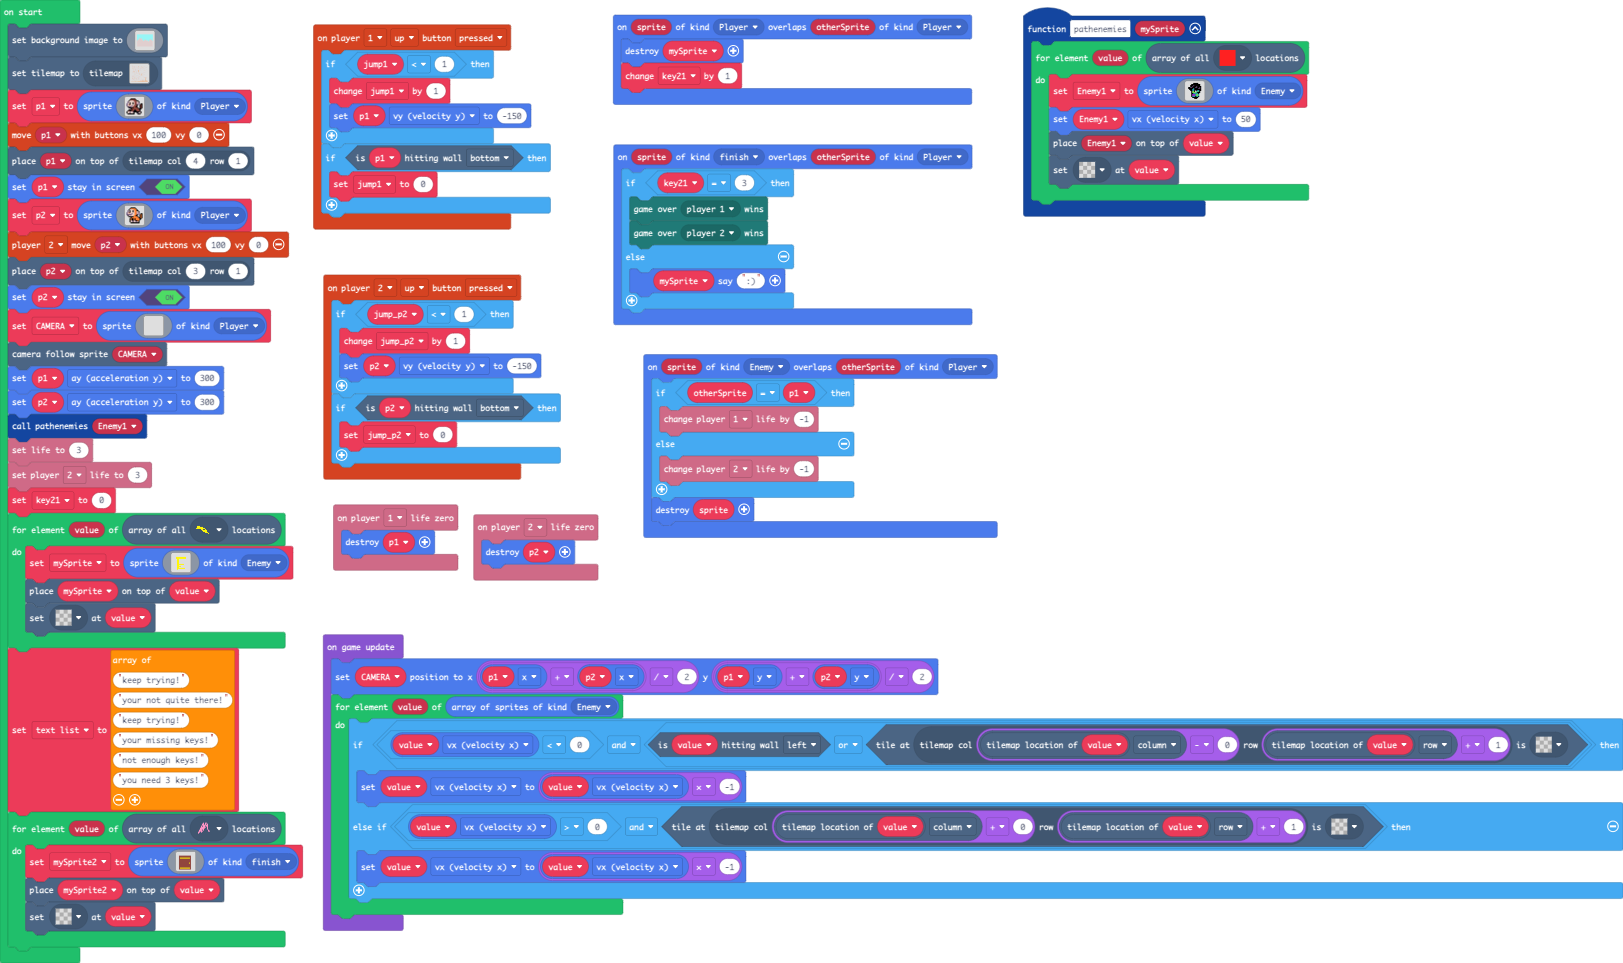
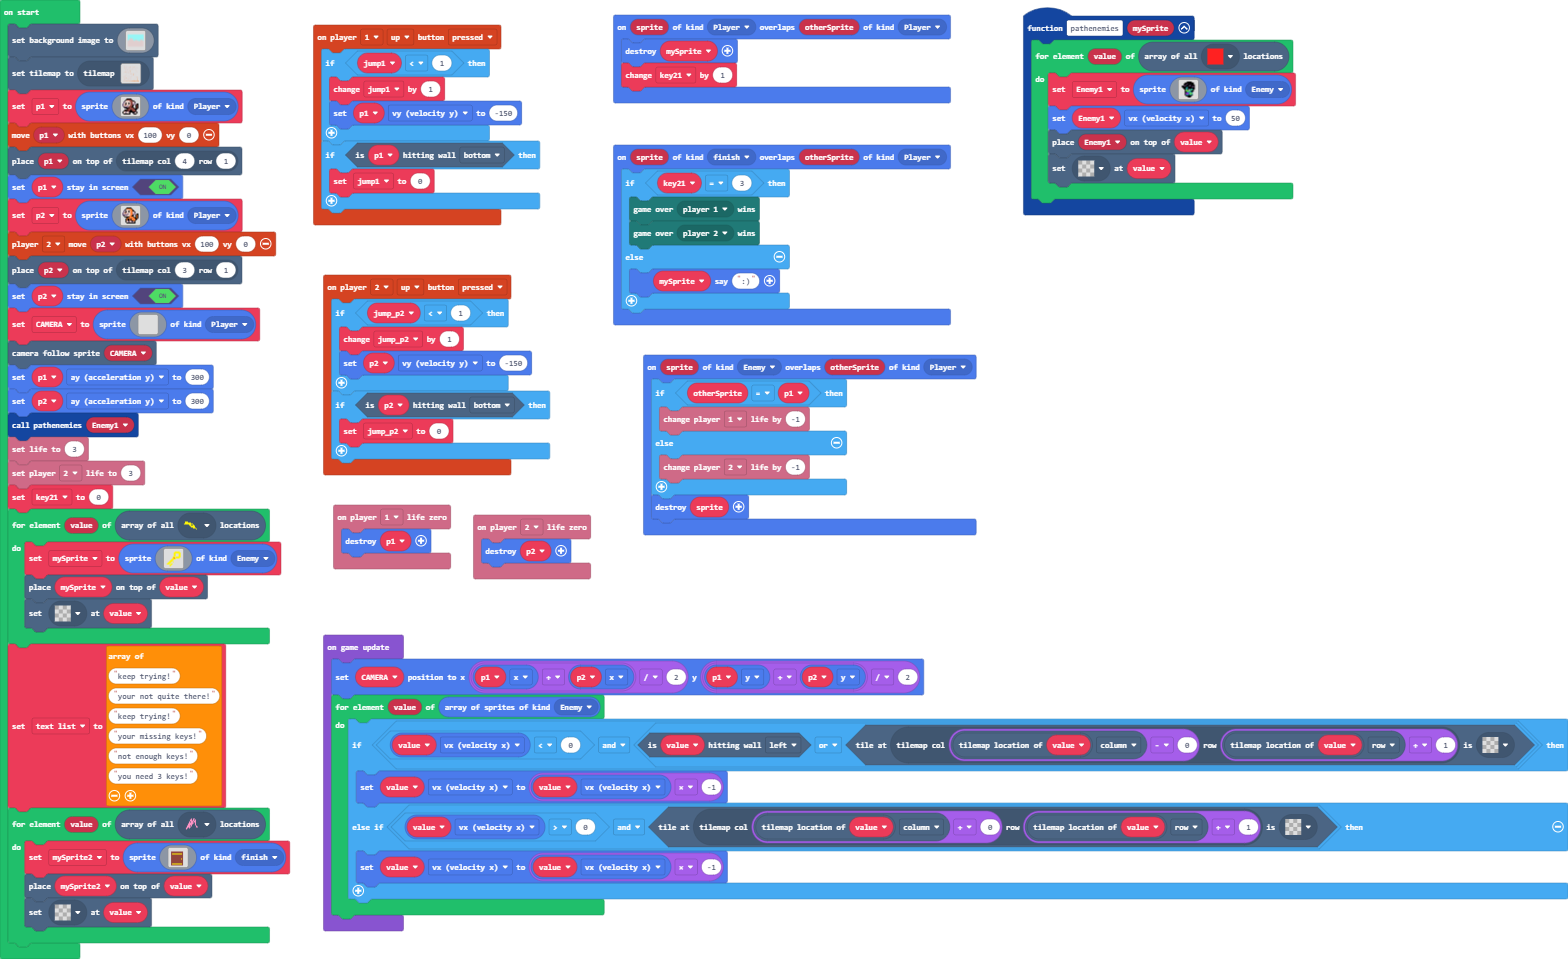
Update main.blocks, main.ts

diff --git a/main.ts b/main.ts
@@ -271,21 +271,21 @@ key21 = 0
 for (let value of tiles.getTilesByType(assets.tile`myTile1`)) {
     mySprite = sprites.create(img`
         . . . . . . . . . . . . . . . . 
-        . . . . . . . . . . . . . . . . 
-        . . . 5 5 5 5 5 5 5 5 5 5 . . . 
-        . . . 5 5 5 5 5 5 5 5 5 5 . . . 
+        . . . . . . . . . 5 5 5 5 5 . . 
+        . . . . . . . . 5 5 5 5 5 5 5 . 
+        . . . . . . . . 5 5 . . . 5 5 . 
+        . . . . . . . . 5 5 . . . 5 5 . 
+        . . . . . . . . 5 5 . . . 5 5 . 
+        . . . . . . . 5 5 . 5 5 5 5 5 . 
+        . . . . . . . 5 2 5 5 5 5 5 . . 
+        . . . . . . 5 5 5 5 . . . . . . 
+        . . . . . 5 5 5 . . . . . . . . 
+        . . . . 5 5 5 . . . . . . . . . 
+        . . . 5 5 5 . 5 . . . . . . . . 
+        . . 5 5 5 . . . . . . . . . . . 
+        . 5 5 5 . 5 5 . . . . . . . . . 
         . . . . 5 5 . . . . . . . . . . 
-        . . . . 5 5 . . . . . . . . . . 
-        . . . . 5 5 . . . . . . . . . . 
-        . . . . 5 5 . . . . . . . . . . 
-        . . . . 5 5 . . . . . . . . . . 
-        . . . . 5 5 5 5 5 5 5 . . . . . 
-        . . . . 5 5 . . . . . . . . . . 
-        . . . . 5 5 5 5 . . . . . . . . 
-        . . . . 5 5 . . . . . . . . . . 
-        . . . . 5 5 5 5 5 5 5 5 . . . . 
         . . . . 5 . . . . . . . . . . . 
-        . . . . . . . . . . . . . . . . 
         `, SpriteKind.Enemy)
     tiles.placeOnTile(mySprite, value)
     tiles.setTileAt(value, assets.tile`transparency16`)
